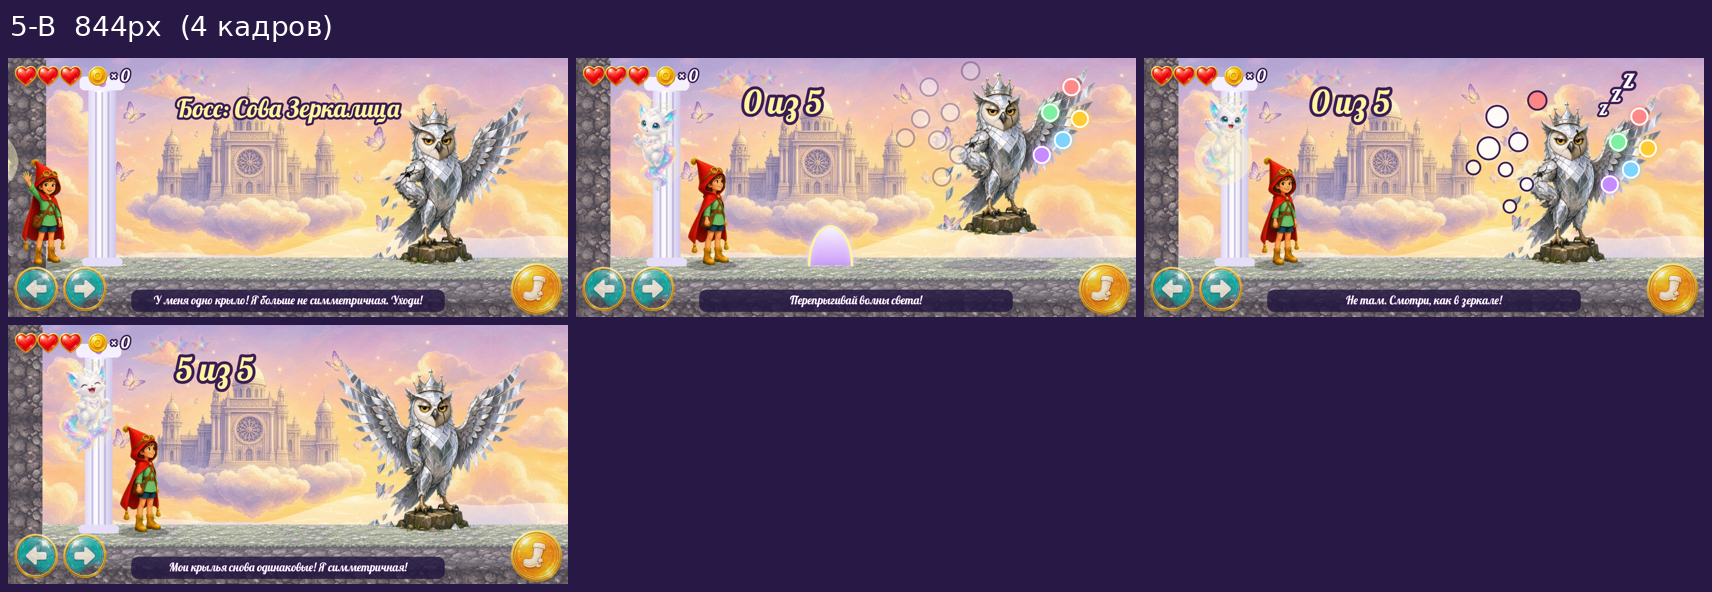
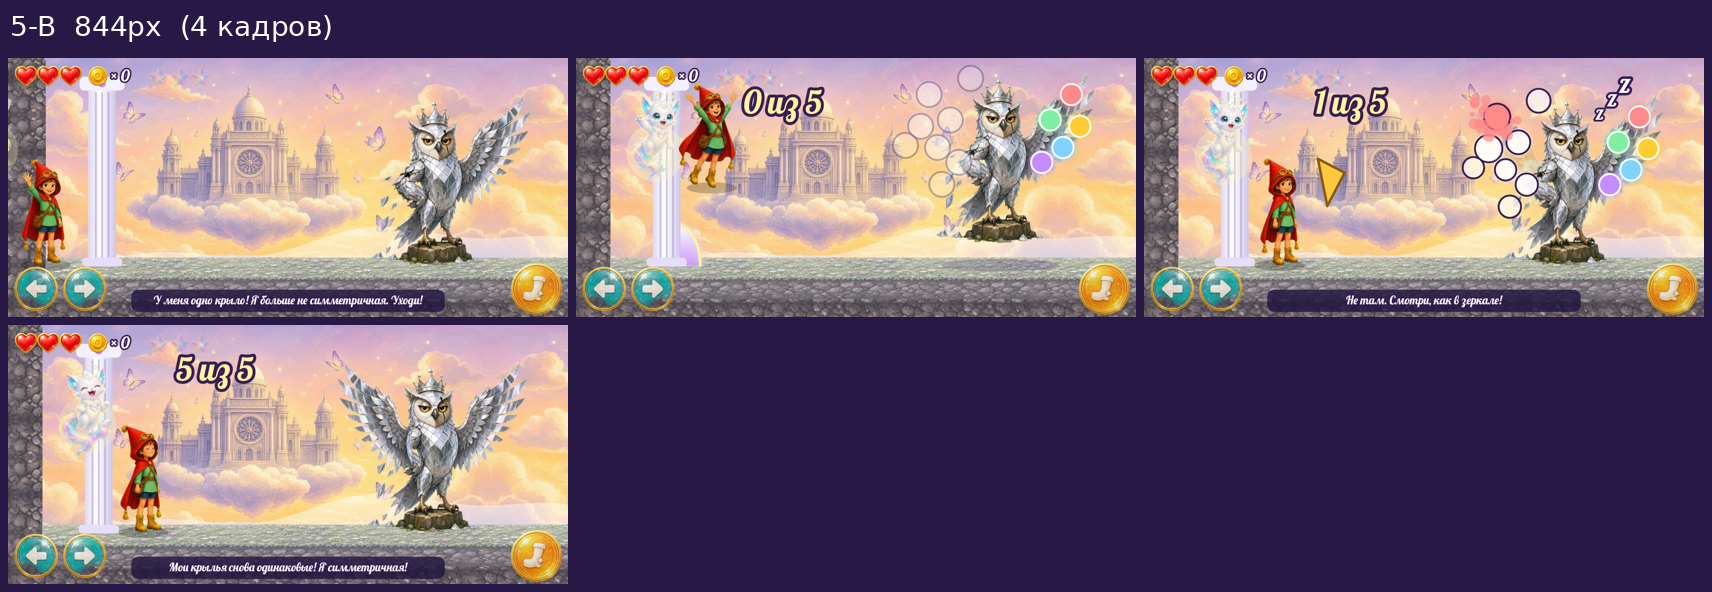
World 5 tests at 3 sizes: owl counter/bot spacing, enemy placement, v10

diff --git a/js/w5.js b/js/w5.js
@@ -138,15 +138,15 @@ EX.owl={top(o){return 600-o.h-30},setup(o){o.boss=1;o.h=270;o.s=o.h/400;o.st='in
    if(o.nw>=3&&!o.waves.length){o.st='rest';o.t=0;hush();say('b5h')}}
   if(o.st=='rest'&&o.t>11){o.st='fly';o.t=0;o.nw=0;o.cd=.8}
   const [w]=dims(p);
-  for(const q of o.waves){q.x+=q.vx*dt;if(q.x<CAM.x-80)q.dead=1;if(!q.hit&&Math.abs(q.x-p.x)<w/2+18&&p.y>600-q.h+6){q.hit=1;hurt(p,q.x)}}
+  for(const q of o.waves){q.x+=q.vx*dt;if(q.x<CAM.x-80)q.dead=1;if(!q.hit&&Math.abs(q.x-p.x)<w/2+18&&p.y>600-q.h+6){q.hit=1;if(p.inv<=0)G.log.push('wave '+Math.round(p.x)+' '+Math.round(p.y)+' g'+(p.ground?1:0)+' cam'+Math.round(CAM.x));hurt(p,q.x)}}
   o.waves=o.waves.filter(q=>!q.dead)},
  tap(o,wx,wy){if(o.st!='rest'&&o.st!='fly')return false;const ds=EX.owl.dots(o);let i=-1,bd=62;ds.forEach((q,k)=>{if(o.mask&(1<<k))return;const d=Math.hypot(wx-q[0],wy-q[1]);if(d<bd){bd=d;i=k}});
   if(i<0){const de=EX.owl.decs(o);const j=de.findIndex(q=>Math.hypot(wx-q[0],wy-q[1])<62);if(j>=0&&o.st=='rest'){SFX.no();hush();say('r_mir_no');o.bad={j,t:.7};return true}if(Math.abs(wx-o.x)<o.h*.6&&wy>600-o.h)return true;return false}
   if(o.st!='rest'){SFX.no();say('b5t');return true}
-  const q=ds[i];throwBoom(q[0],q[1],()=>{if(o.mask&(1<<i)||o.st=='calm')return;o.mask|=1<<i;o.lit++;SFX.light(o.lit);say('n'+o.lit);const z=EX.owl.dots(o)[i];part(z[0],z[1],18,COLS[i],300,.6,0);
+  const q=ds[i];throwBoom(q[0],q[1],()=>{if(o.mask&(1<<i)||o.st=='calm')return;o.mask|=1<<i;o.lit++;SFX.light(o.lit);hush();say('n'+o.lit);const z=EX.owl.dots(o)[i];part(z[0],z[1],18,COLS[i],300,.6,0);
    if(o.lit==5){o.st='calm';o.t=0;o.waves=[];SFX.win();shake(8);hush();say('b5c');part(o.x,600-o.h*.6,60,'#fff3a0',600,1.2,0,12)}});return true},
  hint(o){if(o.st=='rest'){const ds=EX.owl.dots(o);const i=ds.findIndex((q,k)=>!(o.mask&(1<<k)));HAND={x:ds[i][0],y:ds[i][1],t:0,k:'tap'};say('b5h')}else if(o.st=='fly'){HAND={x:0,y:0,t:0,k:'screen',bx:'jump'};say('b5t')}return true},
- bot(o,dt){const p=P;if(o.st=='calm'||o.st=='intro'){BOT.r=0;return true}const tx=o.x-460;BOT.r=p.x<tx-30;BOT.l=p.x>tx+60;
+ bot(o,dt){const p=P;if(o.st=='calm'||o.st=='intro'){BOT.r=0;return true}const tx=Math.max(o.x-460,200);BOT.r=p.x<tx-30;BOT.l=p.x>tx+60;
   const q=o.waves.find(q=>q.x>p.x-20&&q.x-p.x<175);BOT.j=!!q&&p.ground&&q.x-p.x>40||(!p.ground&&p.vy<0);
   if(o.st=='rest'){G.bt=(G.bt||0)+dt;if(G.bt>.75&&!BOOM.length&&o.t>1){G.bt=0;if(!G.botOwl){G.botOwl=1;const d=EX.owl.decs(o)[0];WX.bt(d[0],d[1])}else{const ds=EX.owl.dots(o),i=ds.findIndex((q,k)=>!(o.mask&(1<<k)));if(i>=0)WX.bt(ds[i][0],ds[i][1])}}}return true},
  draw(o){const im=IMG.owl_0;X.save();
@@ -162,7 +162,7 @@ EX.owl={top(o){return 600-o.h-30},setup(o){o.boss=1;o.h=270;o.s=o.h/400;o.st='in
    const a=o.st=='rest'?1:.35;
    ds.forEach((q,i)=>{const on=o.mask&(1<<i);X.save();X.globalAlpha=on?1:a;X.fillStyle=on?COLS[i]:'rgba(255,255,255,.7)';X.shadowColor=on?COLS[i]:'#fff';X.shadowBlur=on?18:8;X.beginPath();X.arc(q[0],q[1],on?21:20+(o.st=='rest'?3*Math.sin(G.t*6+i):0),0,7);X.fill();X.strokeStyle='#3a1d55';X.lineWidth=3;X.stroke();X.restore()});
    de.forEach((q,j)=>{const bad=o.bad&&o.bad.j==j;X.save();X.globalAlpha=a;X.fillStyle=bad?'rgba(255,120,120,.8)':'rgba(255,255,255,.7)';X.beginPath();X.arc(q[0]+(bad?Math.sin(G.t*50)*5:0),q[1],20+(o.st=='rest'?3*Math.sin(G.t*6+j+2):0),0,7);X.fill();X.strokeStyle='#3a1d55';X.lineWidth=3;X.stroke();X.restore()})}
-  if(o.st!='intro')txt(o.lit+' из 5',o.x-o.h*.95-90,600-o.h*.95,big(),'#fff3a0');
+  if(o.st!='intro')txt(o.lit+' из 5',CAM.x+WV*.5,CAM.y+75,big(),'#fff3a0');
   X.restore()}};
 WX.add(()=>{
 const pw=WX.wantF;WX.wantF=function(want,fx,fy){if(pw){const r=pw(want,fx,fy);if(r&&r!=want)return r}if(WX.wn()!=5)return want;if(L.id=='5-3'&&L.forms.includes('bubble'))return 'bubble';return want};
@@ -215,7 +215,7 @@ LV['5-4']=()=>{const b=new LB(162,'5-4');b.meta={name:'5-4 Невидимая д
  b.e('refl',130,10,{shape:'heart'});
  b.meta.path=[[22,9],[26,9],[30,9],[34,10],[60,9],[64,8],[68,9],[71.5,8],[75,10],[102.5,9],[105.5,8],[108.5,9],[111.5,8],[115,10]];
  b.coins(6,7,8,'coin_circ',2).coins(21,7,10,'coin_circ',1).coins(60,6,12,'coin_circ',1).coins(102,6,10,'coin_circ',1).coins(146,7,8,'coin_circ',2);
- b.e('enemy',12,10).e('enemy',50,10).e('enemy',96,10).e('enemy',144,10);
+ b.e('enemy',12,10).e('enemy',140,10).e('enemy',150,10);
  b.e('star',27,6).e('star',66,5).e('star',107,5).e('goal',156,10);
  deco(b,[3,10,36,52,78,96,118,140,152]);return b};
 LV['5-B']=()=>{const n=Math.max(13,Math.ceil(W/1.85/T)+1);const b=new LB(n,'5-B');b.zoom=1.85;b.gf=.8;b.meta={name:'Босс: Сова Зеркалица',intro:['b5a','b5t'],forms:[],boss:'owl'};b.g(0,n).col(0,0,9,1).col(n-1,0,9,1);b.start={x:1,y:9};b.e('owl',n-3,10);b.e('temple',0,10,{xs:[2],h:300});return b};

diff --git a/js/game.js b/js/game.js
@@ -129,7 +129,7 @@ let onBump=null;
 function spawnShard(x,y){ENTS.push({type:'coin',x,y,vy:-600,fly:1,kind:L.id[0]=='1'?'coin_circ':'coin_tri'})}
 function stompWave(p){for(const e of ENTS)if(e.type=='enemy'&&Math.abs(e.x-p.x)<300&&Math.abs(e.y-p.y)<80)killEnemy(e)}
 function fallCatch(p){p.x=p.safe.x;p.y=p.safe.y-10;p.vx=0;p.vy=0;p.ground=false;FM.x=p.x;FM.y=p.y-200;FM.catch=1;say('r_oops');part(p.x,p.y-80,20,'#fff7c0',300,.8,0);if(G.auto)G.auto.rewind=1}
-function hurt(p,from){if(p.inv>0)return;HUD.hearts--;p.inv=1.6;p.hurt=.4;p.vx=(p.x<from?-1:1)*500;p.vy=-600;SFX.hurt();shake(8);if(HUD.hearts<=0){HUD.hearts=3;fallCatch(p)}}
+function hurt(p,from){if(p.inv>0)return;G.log.push('hurt '+G.level+' '+Math.round(p.x)+','+Math.round(p.y)+' '+p.form);HUD.hearts--;p.inv=1.6;p.hurt=.4;p.vx=(p.x<from?-1:1)*500;p.vy=-600;SFX.hurt();shake(8);if(HUD.hearts<=0){HUD.hearts=3;fallCatch(p)}}
 function killEnemy(e){e.dead=1;SFX.stomp();part(e.x,e.y-40,14,'#c08a50',350,.7);HUD.shards++}
 function transform(p){const fs=L.forms||[];const order=['girl',...fs];let i=order.indexOf(p.form);const nx=order[(i+1)%order.length];if(nx==p.form)return;
  const [w0,h0]=dims(p);p.form=nx;const [w1,h1]=dims(p);

diff --git a/index.html b/index.html
@@ -13,5 +13,5 @@ canvas{position:fixed;left:0;top:0;width:100vw;height:100vh;display:block}
 </style></head><body>
 <canvas id="c"></canvas>
 <div id="rot"><div class="ph"></div>Поверни телефон<br>боком!</div>
-<script>const V='9';document.write(['voice','wcore','w2','w3','w4','w5','w6','game'].map(n=>'<script src="js/'+n+'.js?v='+V+'"><\/script>').join(''))</script>
+<script>const V='10';document.write(['voice','wcore','w2','w3','w4','w5','w6','game'].map(n=>'<script src="js/'+n+'.js?v='+V+'"><\/script>').join(''))</script>
 </body></html>

diff --git a/PROGRESS.md b/PROGRESS.md
@@ -56,3 +56,11 @@
 - 4-B Краб Отшельник: жемчуг отбить Щитом обратно -> краб оглушён -> зажечь 6 сторон домика -> новый радужный домик из 6 треугольников.
 - Общее: панели заданий/счётчики прячут название уровня и баннер, если перекрывают. Озвучено 19 новых реплик (157 всего, ASR ок).
 - Тесты SHOT=1 4-1..4-B: 844/667/932 — всё пройдено, ошибок 0, minFps ≥54, badFeet 1 кадр на ~13000 (4-3, 10px над землёй, приземление на врага). Листы sheets/{844,667,932}_4-*.png.
+
+## v10 (30.10 UTC+1) — Мир 5 «Храм симметрии» + правки
+- Правки: победа над боссом даёт звёзды по сердцам (1–3) и бонус 10×звёзды, экран «Босс побеждён!» с лучами; кнопка формы скрыта, пока Формик в плену (4-3/4-4); 4-B камера ближе (зум 1.95); после падения Тася не «на земле».
+- js/w5.js: 5-1 Зеркальный мост (ступени слева -> зеркальная копия справа от оси), 5-2 Зеркальные узоры (сетка: отрази цвета, ошибка = покачивание), 5-3 Облачный храм (Лиловый Пузырь, облака-пружины, восходящий ветер), 5-4 Невидимая дорожка (дорожка видна только в отражении озера + «Найди отражение» из 3 карточек), 5-B Сова Зеркалица (волны света — перепрыгнуть; отдых — отметить 5 точек зеркально, есть ложные точки; крыло отражается).
+- Новые голоса: t_refl, t_cloud, t_up5, t_bub5 (ASR ок).
+- Карта: нельзя открыть мир без уровней (W6 — заготовка). Широкие декор-сущности не отсекаются камерой.
+- Бот: 5-1..5-B на 844x390, 667x375, 932x430 — ошибок 0, badFeet 0, без урона. Листы sheets/{844,667,932}_5-*.png
+- Дальше: Мир 6.
